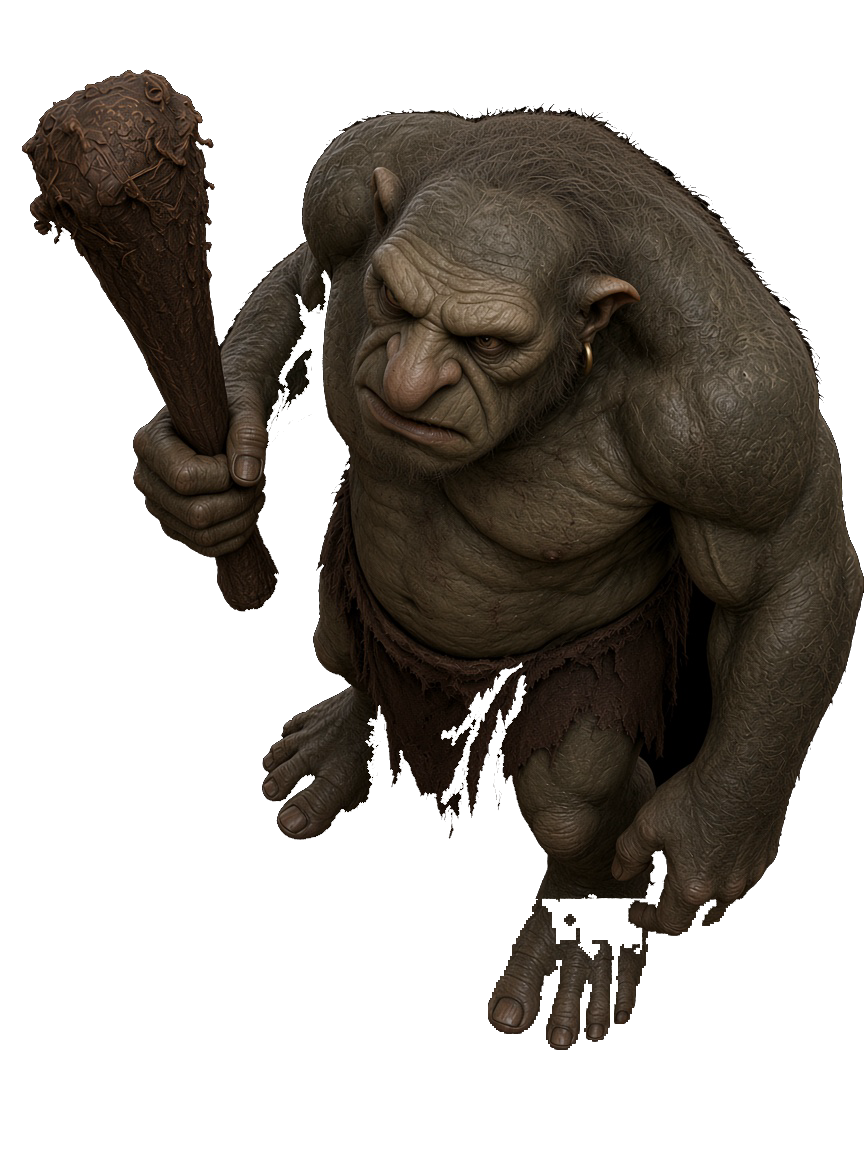
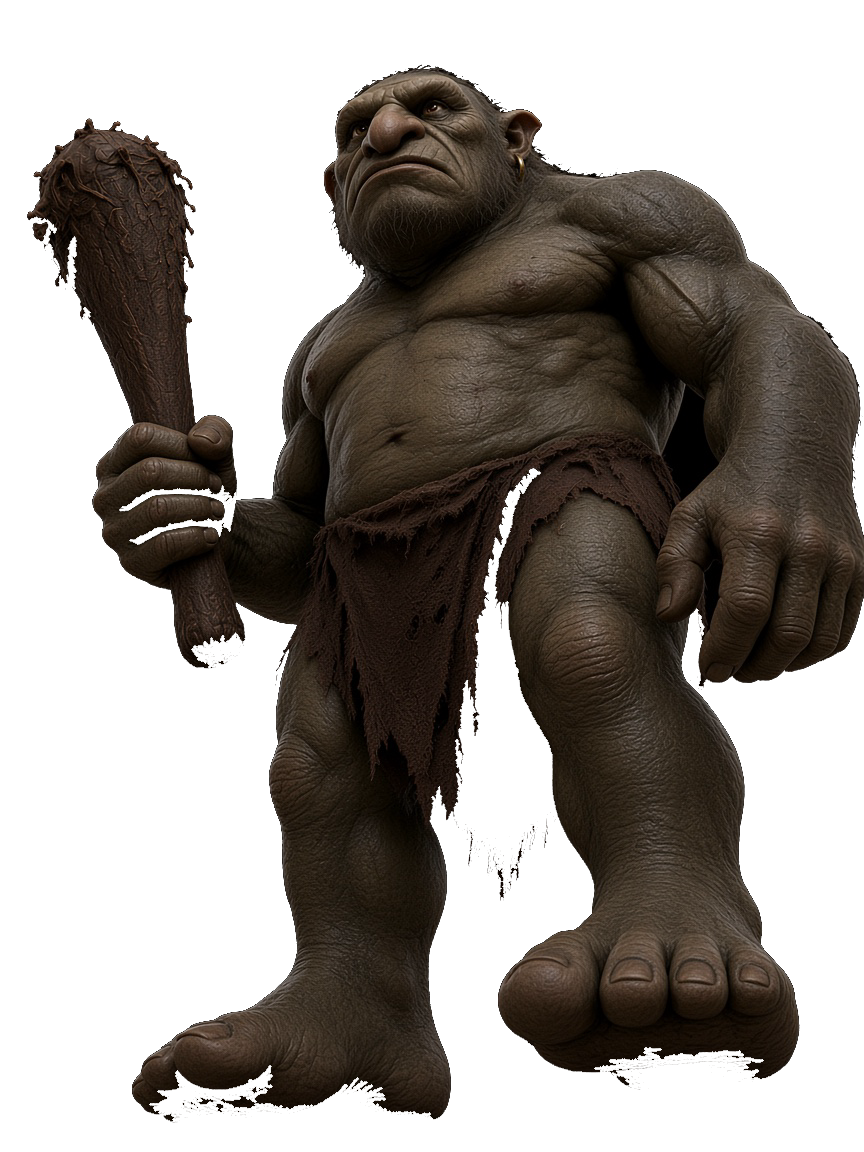
トロールを下からの構図にする。
足元を大きくし、本人は左下を見下ろす。

diff --git a/index.html b/index.html
@@ -9817,7 +9817,7 @@
       },
       {
         name: "トロール",
-        image: "enemy-troll.png?v=3",
+        image: "enemy-troll.png?v=4",
         tier: 2,
         rank: "普通",
         stature: "huge",
@@ -10938,7 +10938,7 @@
       "enemy-kobold.png": { w: 864, h: 1152, top: 30, bottom: 18, left: 146, right: 701 },
       "enemy-minotaur.png": { w: 864, h: 1152, top: 1, bottom: 0, left: 36, right: 862 },
       "enemy-dragon.png": { w: 864, h: 1152, top: 123, bottom: 154, left: 33, right: 863 },
-      "enemy-troll.png": { w: 864, h: 1152, top: 69, bottom: 102, left: 22, right: 863 },
+      "enemy-troll.png": { w: 864, h: 1152, top: 64, bottom: 29, left: 27, right: 863 },
       "enemy-beggar.png": { w: 864, h: 1152, top: 30, bottom: 32, left: 94, right: 718 },
       "enemy-hades.png": { w: 864, h: 1152, top: 86, bottom: 133, left: 44, right: 856 },
     };
@@ -16405,7 +16405,7 @@
               ${sheetFig("enemy-slime.png?v=9", "スライム", "enemy-ref")}
               ${sheetFig("enemy-goblin.png?v=10", "ゴブリン", "enemy-ref")}
               ${sheetFig("enemy-kobold.png?v=5", "コボルド", "enemy-ref")}
-              ${sheetFig("enemy-troll.png?v=3", "トロール", "enemy-ref")}
+              ${sheetFig("enemy-troll.png?v=4", "トロール", "enemy-ref")}
               ${sheetFig("enemy-minotaur.png?v=8", "ミノタウロス", "enemy-ref")}
               ${sheetFig("enemy-dragon.png?v=6", "ちびドラゴン", "enemy-ref")}
               ${sheetFig("enemy-death-dragon.png?v=1", "デスドラゴン", "enemy-ref")}
